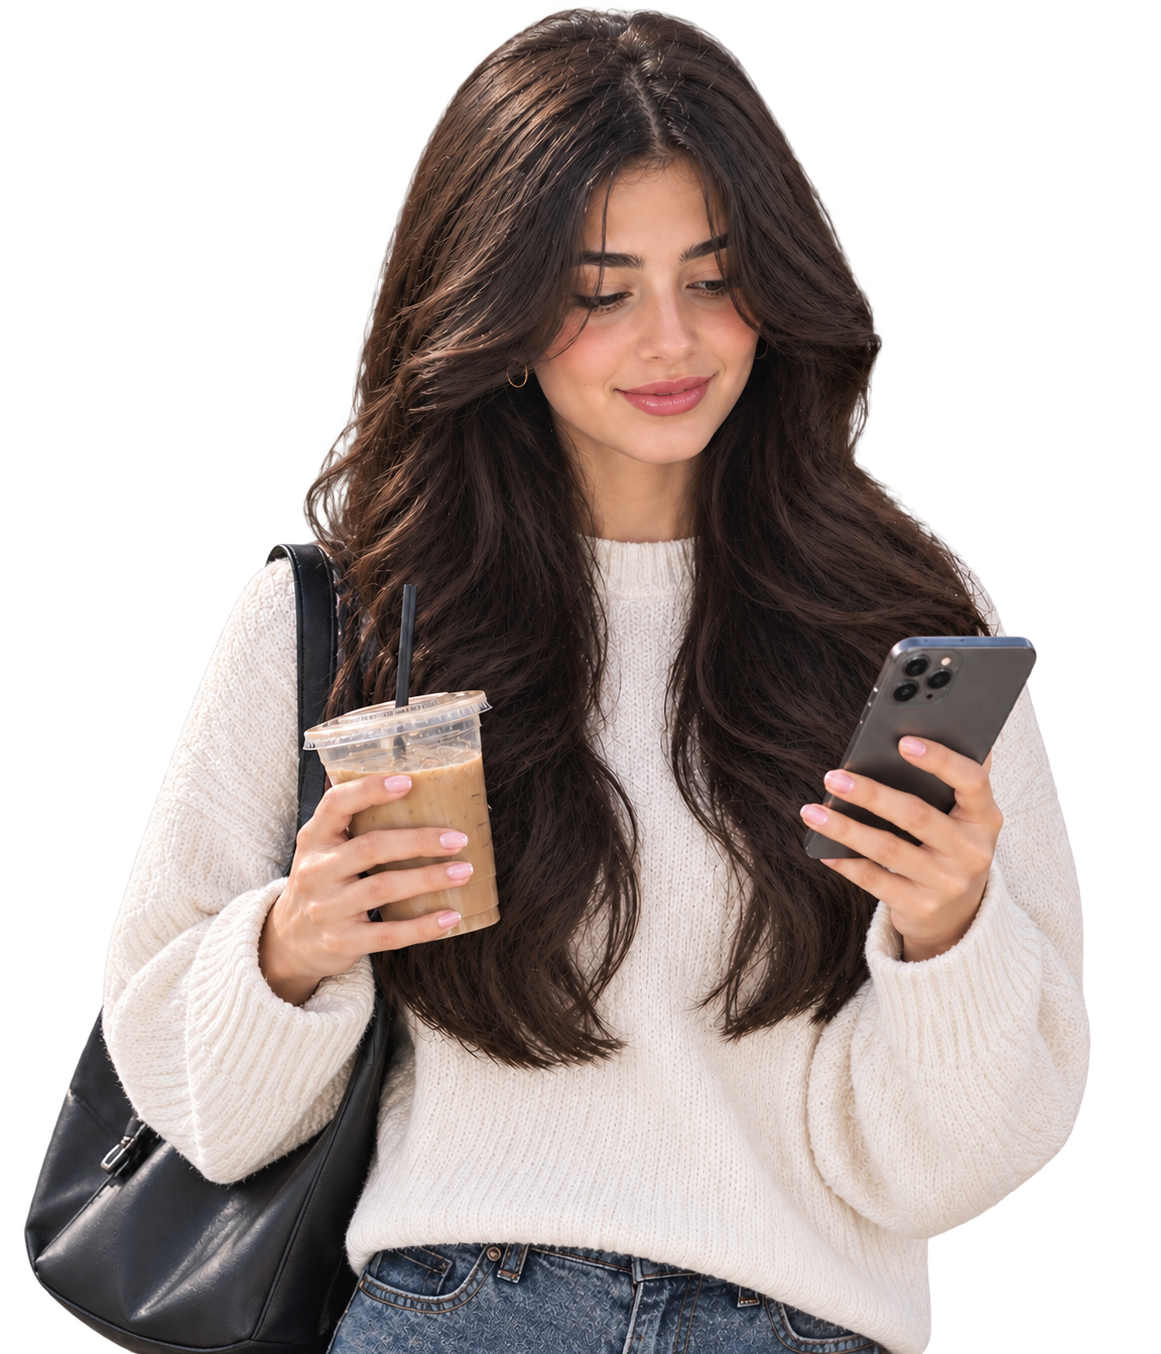
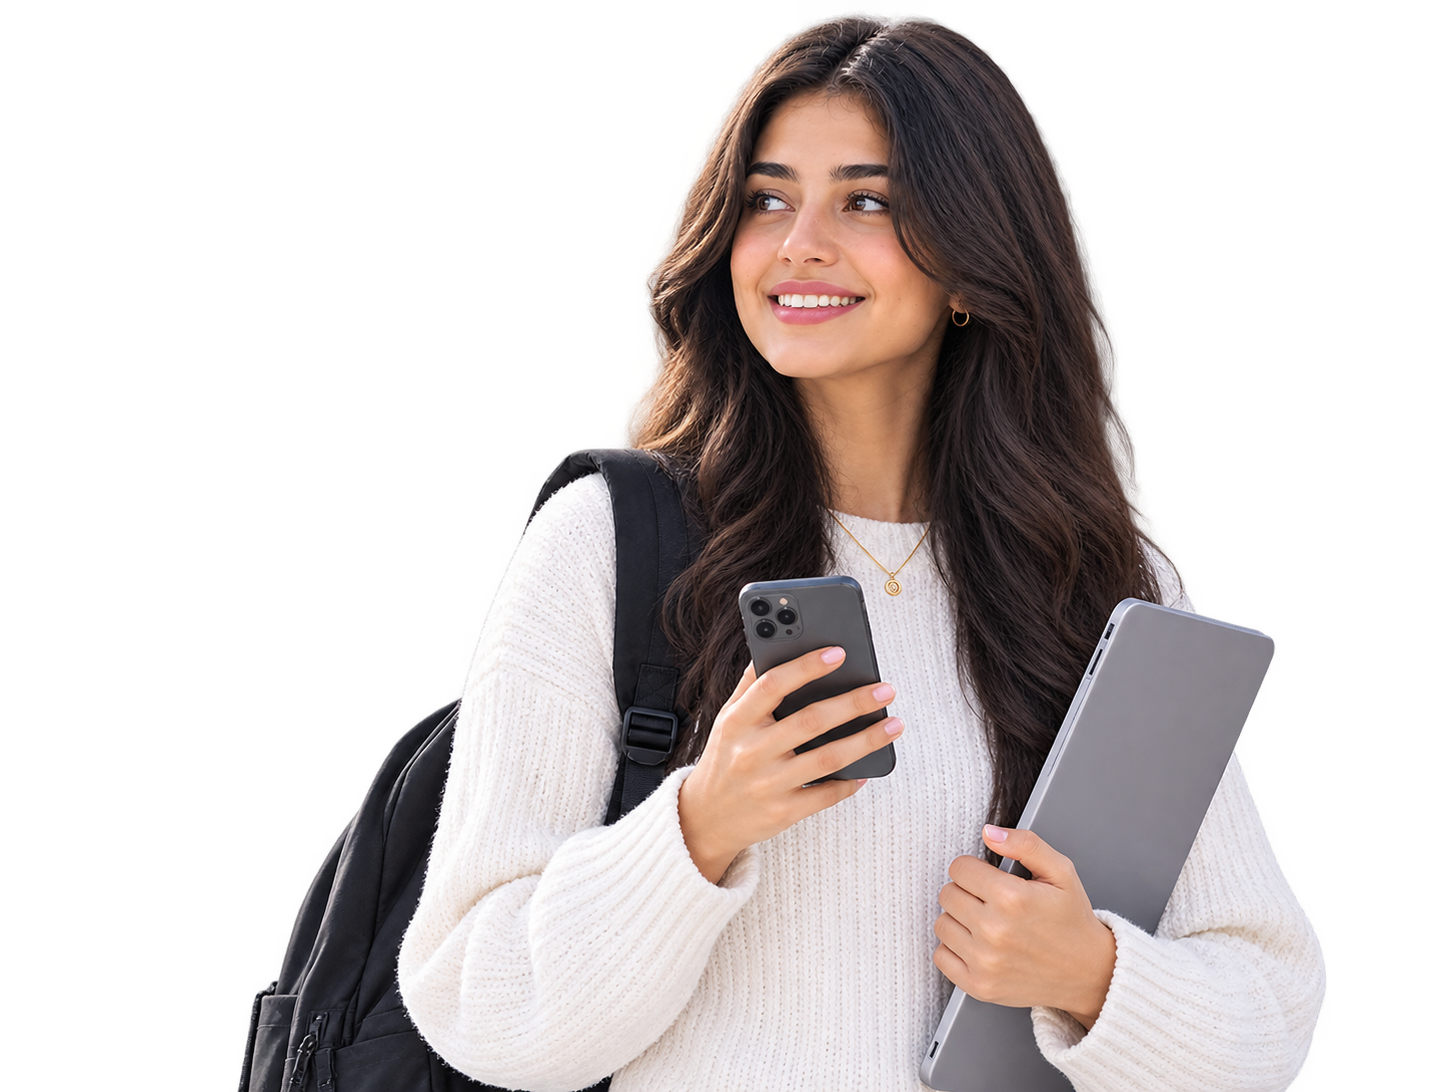
update hero

diff --git a/src/pages/landingData.js b/src/pages/landingData.js
@@ -11,7 +11,13 @@ export const TRUST_POINTS = ["Free for visitors", "No app needed", "Verified bus
 export const PARTNER_LOGOS = [
   { name: "BBK", src: "/logos/bbk.png" },
   { name: "NBB", src: "/logos/nbb.png" },
-  // { name: "Company name", src: "/logos/company.png" },
+  { name: "ila", src: "/logos/ila.png" },
+  { name: "alsalam", src: "/logos/alsalam.png" },
+  { name: "stc", src: "/logos/stc.png" },
+  { name: "zain", src: "/logos/zain.png" },
+  { name: "batelco", src: "/logos/batelco.png" },
+  { name: "ewa", src: "/logos/EWA.webp" },
+  { name: "bahrainpost", src: "/logos/bahrainpost.svg" },
 ];
 
 // SAMPLE reviews. Replace with real reviews before going public.

diff --git a/src/pages/LandingPage.css b/src/pages/LandingPage.css
@@ -235,7 +235,7 @@
 /* move the hero image a little to the left (desktop only) */
 @media (min-width: 901px) {
   .lp-hero__visual img {
-    transform: translateY(-80px) scale(0.75);
+    transform: translateY(-10px);
   }
 }
 
